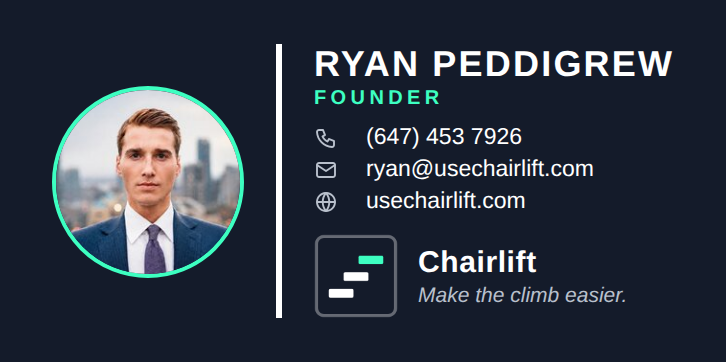
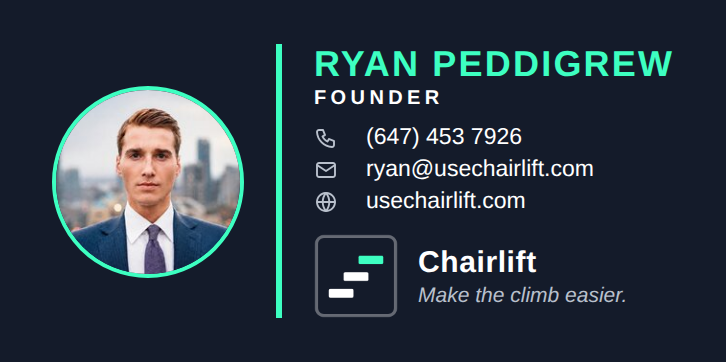
Signature colours: Neon name and line on Ink; Neon ring and Ink text on White
Claude-Session: https://claude.ai/code/session_01PqypBjMi1UyX8TYwUtHGTE

Changed region(s): [[0.4242, 0.1215, 0.9394, 0.2127], [0.3636, 0.1215, 0.3939, 0.8812], [0.4242, 0.2431, 0.6061, 0.3039]]

diff --git a/brand/index.html b/brand/index.html
@@ -142,7 +142,7 @@
     <div class="sec-head"><h2>Colour <span class="tag">Confirmed</span></h2><p>Two brand colours do the work. Everything else is neutral support.</p></div>
     <div class="grid">
       <div class="tile"><div class="swatch" style="background:#141B2A"></div><h3>Midnight Ink</h3><p class="hex">#141B2A · RGB 20 27 42</p><p>Primary brand colour. Logo, headings, dark sections, buttons. Call it <strong>Ink</strong>.</p></div>
-      <div class="tile"><div class="swatch" style="background:#3DFFC1"></div><h3>Chairlift Neon</h3><p class="hex">#3DFFC1 · RGB 61 255 193</p><p>Accent only, used sparingly. Call it <strong>Neon</strong>. See the rules below.</p></div>
+      <div class="tile"><div class="swatch" style="background:#3DFFC1"></div><h3>Chairlift Neon</h3><p class="hex">#3DFFC1 · RGB 61 255 193</p><p>Accent only, used sparingly. Call it <strong>Neon</strong> (also said as "teal" or "mint"). See the rules below.</p></div>
       <div class="tile"><div class="swatch" style="background:#F4F5F7"></div><h3>Mist</h3><p class="hex">#F4F5F7</p><p>Light grey section backgrounds.</p></div>
       <div class="tile"><div class="swatch" style="background:#FFFFFF"></div><h3>White</h3><p class="hex">#FFFFFF</p><p>Page background, cards on dark sections.</p></div>
       <div class="tile"><div class="swatch" style="background:#55595F"></div><h3>Slate</h3><p class="hex">#55595F</p><p>Body text and supporting copy on light backgrounds.</p></div>
@@ -173,7 +173,7 @@
       <div class="dark-demo"><h3 style="font-size:15px;letter-spacing:.04em">Key word · Ink background</h3><p style="font-size:22px;font-weight:800;text-transform:uppercase;margin-top:8px">Journey to the <span class="n">top</span>.</p><p style="color:var(--fog);font-size:15px;margin-top:8px">Neon text, one word per title.</p></div>
     </div>
     <div class="do-dont" style="margin-top:20px">
-      <div class="do"><h3>Where Neon is used</h3><ul><li>The up arrow after "Make the climb easier"</li><li>One key word in a title (run itself, start, top, practice, people, hours)</li><li>The check mark next to "Built inside the tools you already use"</li><li>Link underlines</li><li>Small numbers and labels on Ink (step numbers, "After")</li><li>Email signatures: the "FOUNDER" label in both versions; the headshot ring in the Ink version; the logo's top step. (The Neon "FOUNDER" on white is an exception to the white-background text rule below, kept small and bold.)</li><li>The top step of the logo</li></ul></div>
+      <div class="do"><h3>Where Neon is used</h3><ul><li>The up arrow after "Make the climb easier"</li><li>One key word in a title (run itself, start, top, practice, people, hours)</li><li>The check mark next to "Built inside the tools you already use"</li><li>Link underlines</li><li>Small numbers and labels on Ink (step numbers, "After")</li><li>Email signatures: the headshot ring in both versions; on the Ink version also the name and the divider line; the logo's top step</li><li>The top step of the logo</li></ul></div>
       <div class="dont"><h3>Where Neon is not used</h3><ul><li>The short bars above titles (these are solid Ink, or white on Ink)</li><li>Body text, buttons or large areas</li><li>As text colour on white backgrounds</li><li>More than one accent word per title</li></ul></div>
     </div>
   </div>
@@ -213,8 +213,8 @@
   <div class="wrap">
     <div class="sec-head"><h2>Email signature <span class="tag">Confirmed</span></h2><p>Two versions with the same layout. Open the file in a browser, copy the signature and paste it into Titan → Settings → Signature.</p></div>
     <div class="grid">
-      <div class="tile sig"><img src="/brand/signature-white.png" alt="White email signature"><h3>White</h3><p>Midnight Ink headshot ring and divider line, Neon "FOUNDER". Everyday email. Name in capitals, small soft-grey icons for phone, email and website.</p><a class="dl" href="/brand/email-signature-white.html">Open signature file</a></div>
-      <div class="tile sig"><img src="/brand/signature-ink.png" alt="Ink email signature"><h3>Ink</h3><p>Ink box with a Neon headshot ring, white divider line and a Neon "FOUNDER". Stands out in outreach.</p><a class="dl" href="/brand/email-signature-ink.html">Open signature file</a></div>
+      <div class="tile sig"><img src="/brand/signature-white.png" alt="White email signature"><h3>White</h3><p>Neon headshot ring; Midnight Ink name, "FOUNDER" and divider line. Everyday email. Name in capitals, small soft-grey icons for phone, email and website.</p><a class="dl" href="/brand/email-signature-white.html">Open signature file</a></div>
+      <div class="tile sig"><img src="/brand/signature-ink.png" alt="Ink email signature"><h3>Ink</h3><p>Ink box with a Neon name, divider line and headshot ring, and a white "FOUNDER". Stands out in outreach.</p><a class="dl" href="/brand/email-signature-ink.html">Open signature file</a></div>
     </div>
   </div>
 </section>
@@ -243,6 +243,7 @@
   <div class="wrap">
     <div class="sec-head"><h2>Change log</h2><p>Every brand decision, newest first.</p></div>
     <ul class="log">
+      <li><b>Oct 4, 2026</b>: Signature colours revised again. White version: Neon headshot ring; Midnight Ink name, "FOUNDER" and divider line (no Neon text on white). Ink version: Neon name, divider line and headshot ring; white "FOUNDER". "Teal" and "mint" are both shorthand for Neon.</li>
       <li><b>Oct 4, 2026</b>: Signature colours revised. White version: Midnight Ink headshot ring and divider line, Neon "FOUNDER". Ink version: Neon headshot ring, white divider line, Neon "FOUNDER".</li>
       <li><b>Oct 4, 2026</b>: Signature colours set. White version: Midnight Ink headshot ring, Neon divider line and "FOUNDER". Ink version: white headshot ring and divider line, Neon "FOUNDER". Neon "FOUNDER" on white is a deliberate exception to the no-Neon-text-on-white rule.</li>
       <li><b>Oct 4, 2026</b>: Signature tightened: larger headshot, smaller contact text and icons, larger logo icon. Space above and below the headshot cut from 30px to 21px.</li>

diff --git a/brand/email-signature-white.html b/brand/email-signature-white.html
@@ -13,11 +13,11 @@
       <table cellpadding="0" cellspacing="0" border="0" role="presentation" style="border-collapse:collapse;">
         <tr>
           <td style="vertical-align:middle;padding:0 16px 0 0;">
-            <img src="https://usechairlift.com/images/email-headshot.jpg" width="92" height="92" alt="Ryan Peddigrew" style="display:block;width:92px;height:92px;border-radius:48px;border:2px solid #141B2A;">
+            <img src="https://usechairlift.com/images/email-headshot.jpg" width="92" height="92" alt="Ryan Peddigrew" style="display:block;width:92px;height:92px;border-radius:48px;border:2px solid #3DFFC1;">
           </td>
           <td style="vertical-align:middle;padding:0 0 0 16px;border-left:3px solid #141B2A;">
             <p style="margin:0;font-size:18px;line-height:21px;font-weight:bold;letter-spacing:1.1px;color:#141B2A;white-space:nowrap;">RYAN PEDDIGREW</p>
-            <p style="margin:0;font-size:10px;line-height:13px;font-weight:bold;letter-spacing:2.2px;color:#3DFFC1;">FOUNDER</p>
+            <p style="margin:0;font-size:10px;line-height:13px;font-weight:bold;letter-spacing:2.2px;color:#141B2A;">FOUNDER</p>
             <table cellpadding="0" cellspacing="0" border="0" role="presentation" style="border-collapse:collapse;margin-top:5px;">
               <tr><td style="width:19px;padding:0 7px 0 0;vertical-align:middle;"><img src="https://usechairlift.com/images/signature/icon-phone-white.png" width="12" height="12" alt="Phone" style="display:block;width:12px;height:12px;border:0;"></td><td style="font-size:11.5px;line-height:16px;vertical-align:middle;"><a href="tel:+16474537926" style="color:#141B2A;text-decoration:none;">(647) 453 7926</a></td></tr>
               <tr><td style="width:19px;padding:0 7px 0 0;vertical-align:middle;"><img src="https://usechairlift.com/images/signature/icon-mail-white.png" width="12" height="12" alt="Email" style="display:block;width:12px;height:12px;border:0;"></td><td style="font-size:11.5px;line-height:16px;vertical-align:middle;"><a href="mailto:ryan@usechairlift.com" style="color:#141B2A;text-decoration:none;">ryan@usechairlift.com</a></td></tr>

diff --git a/brand/email-signature-ink.html b/brand/email-signature-ink.html
@@ -15,9 +15,9 @@
           <td style="vertical-align:middle;padding:0 16px 0 0;">
             <img src="https://usechairlift.com/images/email-headshot.jpg" width="92" height="92" alt="Ryan Peddigrew" style="display:block;width:92px;height:92px;border-radius:48px;border:2px solid #3DFFC1;">
           </td>
-          <td style="vertical-align:middle;padding:0 0 0 16px;border-left:3px solid #FFFFFF;">
-            <p style="margin:0;font-size:18px;line-height:21px;font-weight:bold;letter-spacing:1.1px;color:#FFFFFF;white-space:nowrap;">RYAN PEDDIGREW</p>
-            <p style="margin:0;font-size:10px;line-height:13px;font-weight:bold;letter-spacing:2.2px;color:#3DFFC1;">FOUNDER</p>
+          <td style="vertical-align:middle;padding:0 0 0 16px;border-left:3px solid #3DFFC1;">
+            <p style="margin:0;font-size:18px;line-height:21px;font-weight:bold;letter-spacing:1.1px;color:#3DFFC1;white-space:nowrap;">RYAN PEDDIGREW</p>
+            <p style="margin:0;font-size:10px;line-height:13px;font-weight:bold;letter-spacing:2.2px;color:#FFFFFF;">FOUNDER</p>
             <table cellpadding="0" cellspacing="0" border="0" role="presentation" style="border-collapse:collapse;margin-top:5px;">
               <tr><td style="width:19px;padding:0 7px 0 0;vertical-align:middle;"><img src="https://usechairlift.com/images/signature/icon-phone-ink.png" width="12" height="12" alt="Phone" style="display:block;width:12px;height:12px;border:0;"></td><td style="font-size:11.5px;line-height:16px;vertical-align:middle;"><a href="tel:+16474537926" style="color:#FFFFFF;text-decoration:none;">(647) 453 7926</a></td></tr>
               <tr><td style="width:19px;padding:0 7px 0 0;vertical-align:middle;"><img src="https://usechairlift.com/images/signature/icon-mail-ink.png" width="12" height="12" alt="Email" style="display:block;width:12px;height:12px;border:0;"></td><td style="font-size:11.5px;line-height:16px;vertical-align:middle;"><a href="mailto:ryan@usechairlift.com" style="color:#FFFFFF;text-decoration:none;">ryan@usechairlift.com</a></td></tr>

diff --git a/tools/signature.py b/tools/signature.py
@@ -9,9 +9,10 @@ def sig(dark):
     t = "ink" if dark else "white"
     bg = "#141B2A" if dark else "#FFFFFF"
     text = "#FFFFFF" if dark else "#141B2A"
-    line = "#FFFFFF" if dark else "#141B2A"
-    ring = "#3DFFC1" if dark else "#141B2A"
-    role = "#3DFFC1"
+    line = "#3DFFC1" if dark else "#141B2A"
+    ring = "#3DFFC1"
+    namec = "#3DFFC1" if dark else "#141B2A"
+    role = "#FFFFFF" if dark else "#141B2A"
     tag = "#B9C0CC" if dark else "#55595F"
     logo = "email-logo-dark.png" if dark else "email-logo.png"
     pad = "22px 26px" if dark else "0"
@@ -42,7 +43,7 @@ def sig(dark):
             <img src="{BASE}/email-headshot.jpg" width="92" height="92" alt="Ryan Peddigrew" style="display:block;width:92px;height:92px;border-radius:48px;border:2px solid {ring};">
           </td>
           <td style="vertical-align:middle;padding:0 0 0 16px;border-left:3px solid {line};">
-            <p style="margin:0;font-size:18px;line-height:21px;font-weight:bold;letter-spacing:1.1px;color:{text};white-space:nowrap;">RYAN PEDDIGREW</p>
+            <p style="margin:0;font-size:18px;line-height:21px;font-weight:bold;letter-spacing:1.1px;color:{namec};white-space:nowrap;">RYAN PEDDIGREW</p>
             <p style="margin:0;font-size:10px;line-height:13px;font-weight:bold;letter-spacing:2.2px;color:{role};">FOUNDER</p>
             <table cellpadding="0" cellspacing="0" border="0" role="presentation" style="border-collapse:collapse;margin-top:5px;">
               {row("phone", "Phone", "tel:+16474537926", "(647) 453 7926")}

diff --git a/CLAUDE.md b/CLAUDE.md
@@ -18,6 +18,7 @@ Static site for Chairlift, hosted on Netlify. Every push to `main` publishes the
 ## Brand guidelines: keep them current
 - The brand guide lives at `brand/index.html` (usechairlift.com/brand/, noindex, not linked from the site).
 - **Whenever a brand element is added or changed** (logo, colours, fonts, accent rules, layout rules, voice, signature, assets), update `brand/index.html` and add a dated line to its change log in the same change.
+- If Ryan says "teal" or "mint" he means Chairlift Neon.
 - Colour names: **Midnight Ink** `#141B2A` ("Ink") and **Chairlift Neon** `#3DFFC1` ("Neon"). Neon is an accent only: one key word per title, the hero arrow, link underlines, small labels on Ink. Never on title bars, never as text on white.
 - Layout: straight section edges, no staircase graphics outside the logo, white cards on Ink sections, two Ink sections never touch.
 - Font: Hanken Grotesk (headings ExtraBold 800, ALL CAPS). Email: Helvetica/Arial.
